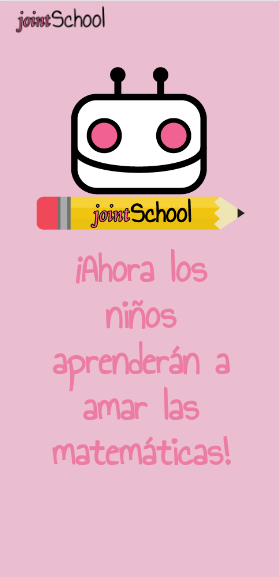
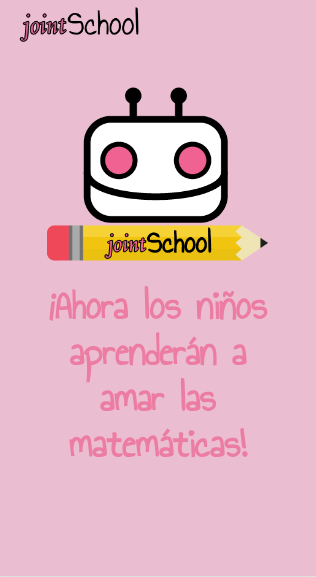
More information about

Changed region(s): [[0.1147, 0.0936, 0.8889, 0.8111], [0.0, 0.9983, 1.0, 1.0], [0.0573, 0.0, 0.4588, 0.0936]]

diff --git a/index.html b/index.html
@@ -86,7 +86,7 @@
                             <div class="device">
                                 <div class="screen">
                                     <!-- Demo image for screen mockup, you can put an image here, some HTML, an animation, video, or anything else! -->
-                                    <img src="img/index.png" class="img-responsive" alt="">
+                                    <img src="img/index.png" class="img-responsive" alt="" style="width: 100%;">
                                 </div>
                                 <div class="button">
                                     <!-- You can hook the "home button" to some JavaScript events or just remove it -->
